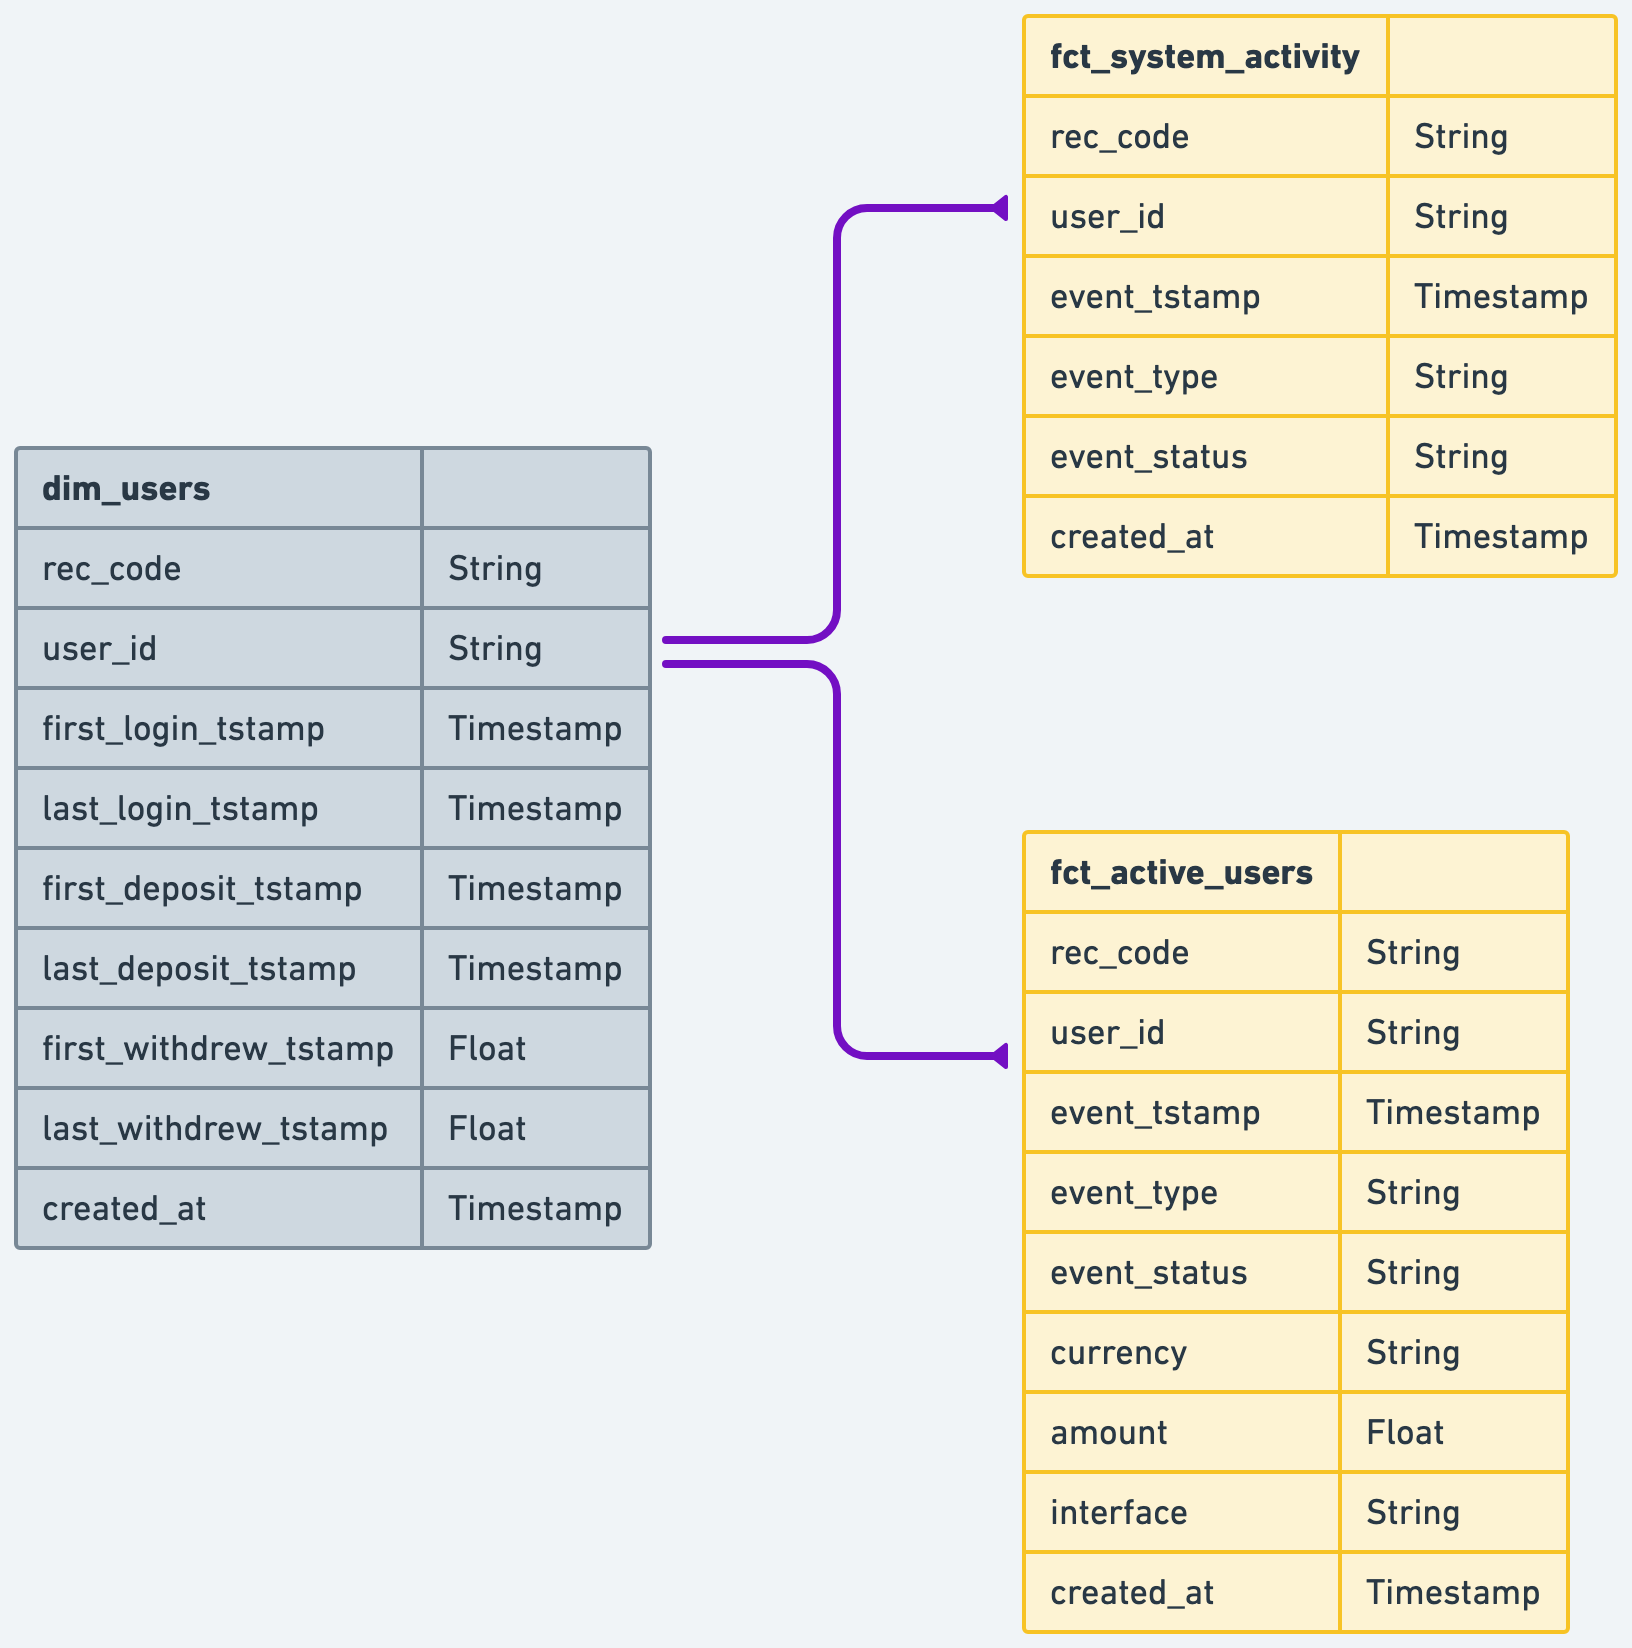
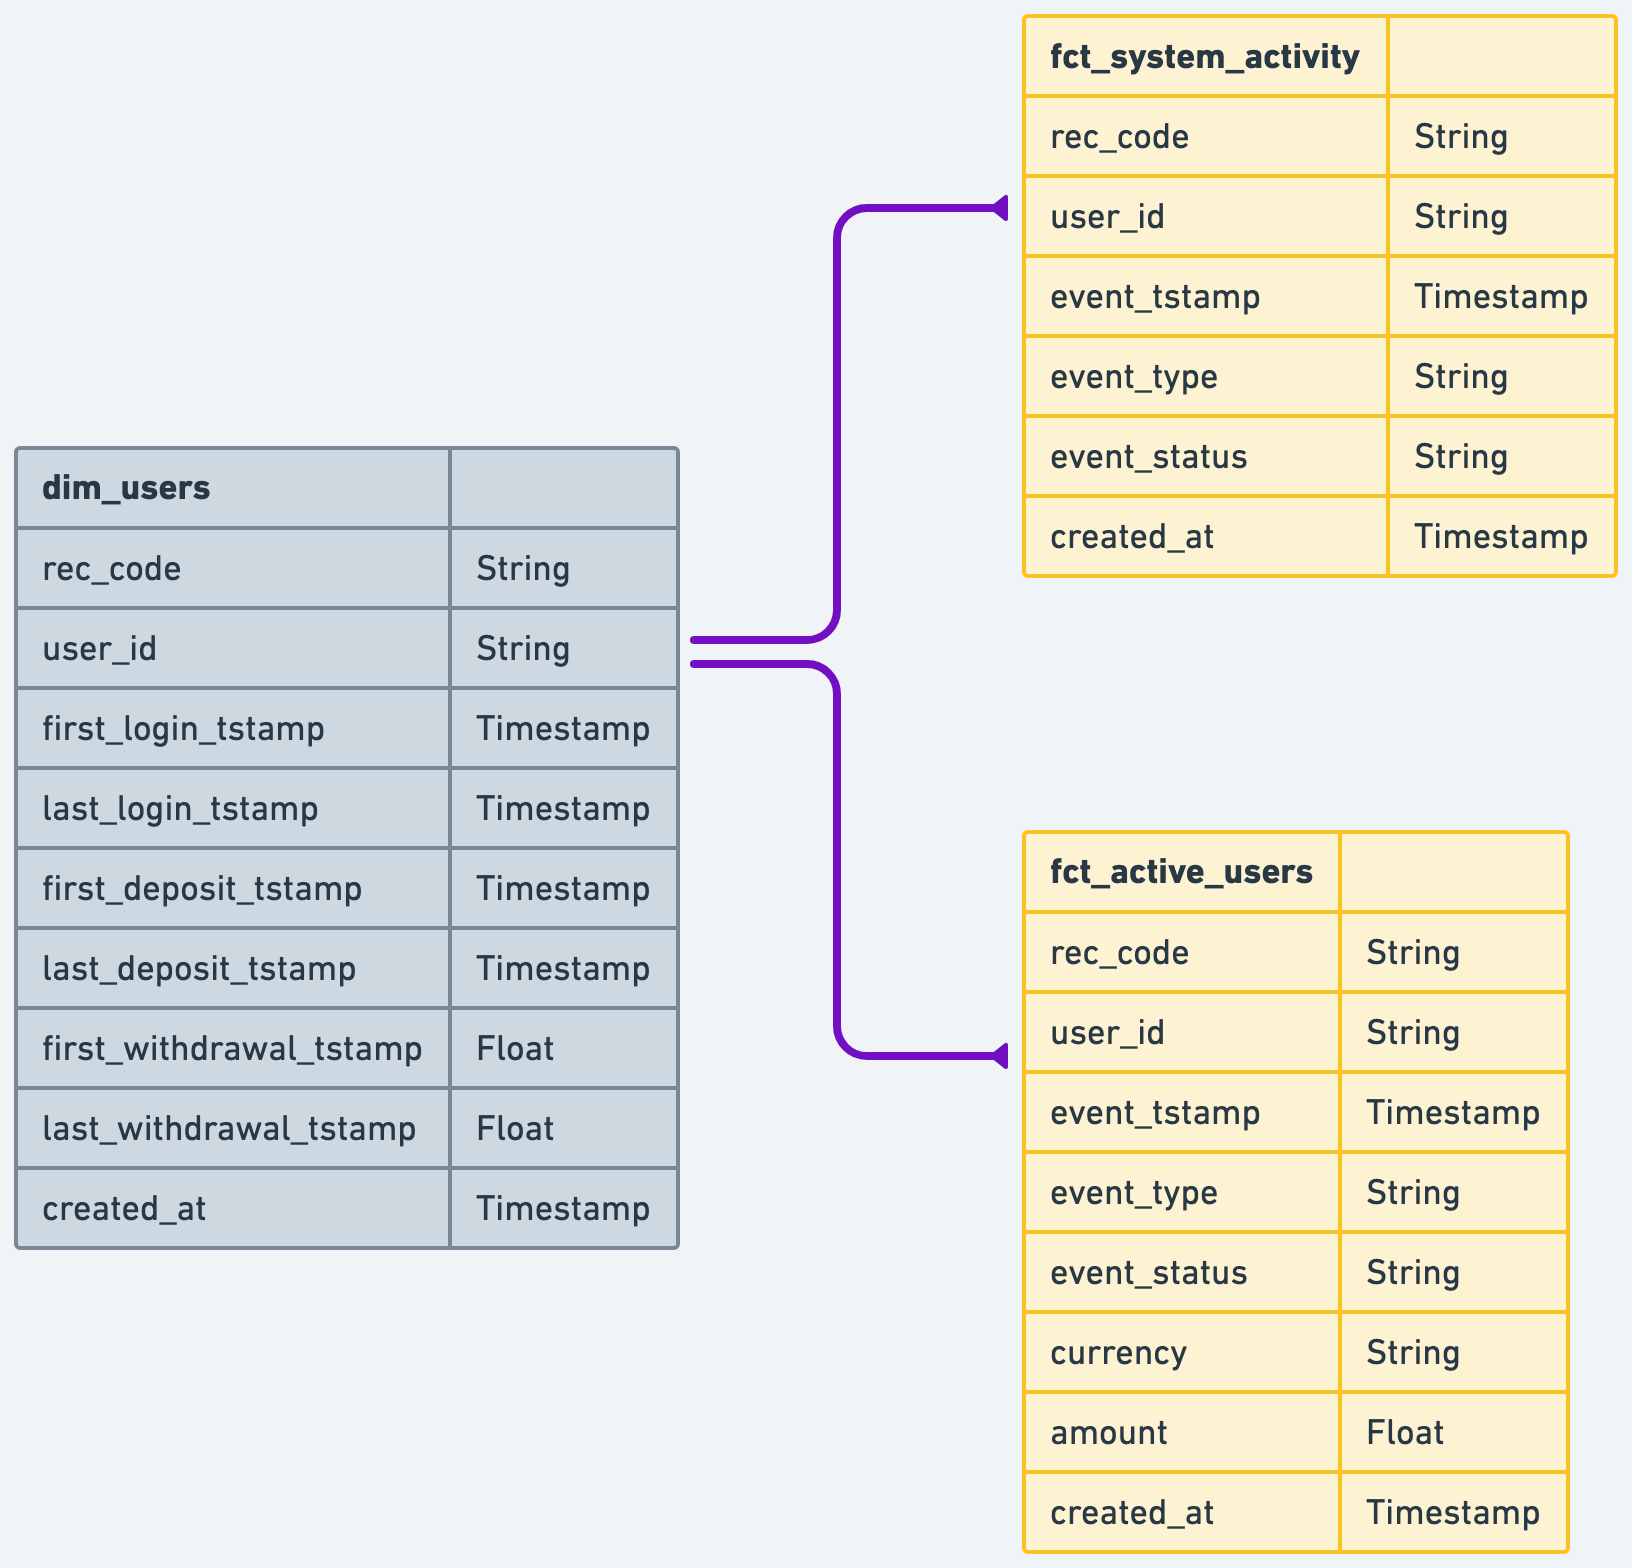
Creating process to create user dimension

Changed region(s): [[0.0, 0.25, 0.5312, 0.8125], [0.5, 0.5, 0.9688, 1.0], [0.5, 0.0312, 1.0, 0.375]]

diff --git a/src/challenge1.py b/src/challenge1.py
@@ -5,8 +5,6 @@ import os
 import hashlib
 from datetime import datetime, timedelta
 
-
-
 def download_data():
     """
     Downloads multiple files from predefined URLs and saves them to a specified directory.
@@ -15,20 +13,28 @@ def download_data():
 
     This function calls `download_file` and `download_and_unzip_file` for each URL in the `urls` list.
     """
+    print("Starting data download...")
+
     # Define URLs and output directory for CSV files
     csv_urls = config.CSV_URLs
     output_dir = config.INPUT_DIR  # Adjust the path as per your project structure
 
     # Download each file
     for url in csv_urls:
+        print(f"Downloading CSV file from {url}...")
         utils.download_file(url, output_dir)
+        print(f"Downloaded CSV file from {url}.")
 
     # Define URLs and output directory for zipped files
     zip_urls = config.ZIP_URLs
     
     # Download each file
     for url in zip_urls:
+        print(f"Downloading and unzipping file from {url}...")
         utils.download_and_unzip_file(url, output_dir)
+        print(f"Downloaded and unzipped file from {url}.")
+
+    print("Data download completed.")
 
 def create_fct_active_users(pivot_date, offset_days, deposit_file, withdrawals_file, output_file):
     """
@@ -41,36 +47,38 @@ def create_fct_active_users(pivot_date, offset_days, deposit_file, withdrawals_f
     withdrawals_file (str): Path to the withdrawals CSV file.
     output_file (str): Path to the output CSV file.
     """
+    print("Starting creation of active users fact table...")
+
     # Convert pivot_date to datetime
     pivot_date = datetime.strptime(pivot_date, '%Y-%m-%d')
     start_date = pivot_date - timedelta(days=offset_days)
     
-    # Read the CSV files
+    print(f"Reading deposits from {deposit_file}...")
     deposits = pd.read_csv(deposit_file)
+    print(f"Reading withdrawals from {withdrawals_file}...")
     withdrawals = pd.read_csv(withdrawals_file)
 
     # Rename event_timestamp to event_tstamp
     deposits.rename(columns={'event_timestamp': 'event_tstamp'}, inplace=True)
     withdrawals.rename(columns={'event_timestamp': 'event_tstamp'}, inplace=True)
     
-
     # Check if the output file exists
     fct_file_exist = os.path.exists(output_file)
 
     # If file doesn't exist, it will use all the data.
-    if(fct_file_exist):
-        # Filter data based on pivot_date and offset_days
+    if fct_file_exist:
+        print("Filtering data based on pivot_date and offset_days...")
         deposits = deposits[(deposits['event_tstamp'] >= start_date.strftime('%Y-%m-%d')) &
-                                    (deposits['event_tstamp'] <= pivot_date.strftime('%Y-%m-%d'))]
+                            (deposits['event_tstamp'] <= pivot_date.strftime('%Y-%m-%d'))]
         
         withdrawals = withdrawals[(withdrawals['event_tstamp'] >= start_date.strftime('%Y-%m-%d')) &
-                                        (withdrawals['event_tstamp'] <= pivot_date.strftime('%Y-%m-%d'))]
+                                  (withdrawals['event_tstamp'] <= pivot_date.strftime('%Y-%m-%d'))]
     
     # Add event_type column
     deposits['event_type'] = 'DEPOSIT'
     withdrawals['event_type'] = 'WITHDRAWAL'
 
-    
+    print("Concatenating deposit and withdrawal data...")
     # Concatenate the data
     combined = pd.concat([deposits, withdrawals], ignore_index=True)
 
@@ -93,9 +101,11 @@ def create_fct_active_users(pivot_date, offset_days, deposit_file, withdrawals_f
     final_df = combined[['rec_code', 'user_id', 'tx_id', 'event_tstamp', 'event_type', 
                          'event_status', 'currency', 'amount', 'created_at']]
     
+    print("Checking if the output file exists...")
     # Check if the output file exists
     if fct_file_exist:
         existing_df = pd.read_csv(output_file)
+        print("Merging existing data with the new data...")
         # Merge existing data with the new data
         merged_df = pd.merge(existing_df, final_df, on='rec_code', how='outer', suffixes=('_old', ''))
         
@@ -106,6 +116,7 @@ def create_fct_active_users(pivot_date, offset_days, deposit_file, withdrawals_f
     else:
         merged_df = final_df
 
+    print(f"Writing merged data to {output_file}...")
     # Write to the output file
     merged_df.to_csv(output_file, index=False)
     print(f"Data successfully written to {output_file}")
@@ -122,13 +133,17 @@ def create_fct_system_activity(pivot_date, offset_days, event_file, deposit_file
     withdrawals_file (str): Path to the withdrawals CSV file.
     output_file (str): Path to the output CSV file.
     """
+    print("Starting creation of system activity fact table...")
+
     # Convert pivot_date to datetime
     pivot_date = datetime.strptime(pivot_date, '%Y-%m-%d')
     start_date = pivot_date - timedelta(days=offset_days)
     
-    # Read the CSV files
+    print(f"Reading events from {event_file}...")
     events = pd.read_csv(event_file)
+    print(f"Reading deposits from {deposit_file}...")
     deposits = pd.read_csv(deposit_file)
+    print(f"Reading withdrawals from {withdrawals_file}...")
     withdrawals = pd.read_csv(withdrawals_file)
     
     # Rename event_timestamp to event_tstamp
@@ -139,11 +154,12 @@ def create_fct_system_activity(pivot_date, offset_days, event_file, deposit_file
     # Add event_type and event_status columns
     events['event_type'] = events['event_name']
     events['event_status'] = 'COMPLETED'
-    deposits['event_type'] = 'deposit'
+    deposits['event_type'] = 'DEPOSIT'
     deposits['event_status'] = deposits['tx_status']
-    withdrawals['event_type'] = 'withdrawal'
+    withdrawals['event_type'] = 'WITHDRAWAL'
     withdrawals['event_status'] = withdrawals['tx_status']
     
+    print("Concatenating events, deposits, and withdrawals data...")
     # Concatenate the data
     combined = pd.concat([events[['id', 'user_id', 'event_tstamp', 'event_type', 'event_status']],
                           deposits[['id', 'user_id', 'event_tstamp', 'event_type', 'event_status']],
@@ -166,6 +182,7 @@ def create_fct_system_activity(pivot_date, offset_days, event_file, deposit_file
     # Select and reorder columns
     final_df = combined[['rec_code', 'user_id', 'event_id', 'event_tstamp', 'event_type', 'event_status', 'created_at']]
     
+    print("Checking if the output file exists...")
     # Check if the output file exists
     if os.path.exists(output_file):
         existing_df = pd.read_csv(output_file)
@@ -175,6 +192,7 @@ def create_fct_system_activity(pivot_date, offset_days, event_file, deposit_file
             combined = combined[(combined['event_tstamp'] >= start_date.strftime('%Y-%m-%d')) &
                                 (combined['event_tstamp'] <= pivot_date.strftime('%Y-%m-%d'))]
         
+        print("Merging existing data with the new data...")
         # Merge existing data with the new data
         merged_df = pd.merge(existing_df, final_df, on='rec_code', how='outer', suffixes=('_old', ''))
         
@@ -185,8 +203,109 @@ def create_fct_system_activity(pivot_date, offset_days, event_file, deposit_file
     else:
         merged_df = final_df
 
+    print(f"Writing merged data to {output_file}...")
     # Write to the output file
     merged_df.to_csv(output_file, index=False)
+    print(f"Data successfully written to {output_file}")
+
+def create_dim_users(pivot_date, offset_days, activity_file, user_id_file, output_file):
+    """
+    Create a dimension table CSV file for users by extracting and summarizing data from system activity and user ID files.
+
+    Parameters:
+    pivot_date (str): The pivot date in 'YYYY-MM-DD' format.
+    offset_days (int): The number of days to include before the pivot date.
+    activity_file (str): Path to the system activity CSV file.
+    user_id_file (str): Path to the user ID CSV file.
+    output_file (str): Path to the output CSV file.
+    """
+    print("Starting creation of users dimension table...")
+
+    # Convert pivot_date to datetime
+    pivot_date = datetime.strptime(pivot_date, '%Y-%m-%d')
+    start_date = pivot_date - timedelta(days=offset_days)
+    
+    print(f"Reading activity data from {activity_file}...")
+    activity_df = pd.read_csv(activity_file)
+    print(f"Reading user ID data from {user_id_file}...")
+    user_id_df = pd.read_csv(user_id_file)
+    
+    print("Filtering activity data based on pivot_date and offset_days if the final file exists...")
+    # Filter activity data based on pivot_date and offset_days if the final file exists
+    if os.path.exists(output_file):
+        existing_df = pd.read_csv(output_file)
+        if not existing_df.empty:
+            activity_df = activity_df[(activity_df['event_tstamp'] >= start_date.strftime('%Y-%m-%d')) &
+                                      (activity_df['event_tstamp'] <= pivot_date.strftime('%Y-%m-%d'))]
+
+    # Get all unique user_ids from both files
+    all_user_ids = pd.concat([activity_df['user_id'], user_id_df['user_id']]).unique()
+    
+    # Initialize the dim_users DataFrame
+    dim_users = pd.DataFrame(all_user_ids, columns=['user_id'])
+    
+    # Generate rec_code using MD5 hash of user_id
+    dim_users['rec_code'] = dim_users['user_id'].apply(lambda x: hashlib.md5(str(x).encode()).hexdigest())
+
+    print("Calculating first and last event timestamps for logins, deposits, and withdrawals...")
+    # Group by user_id and calculate min and max event_tstamp for logins
+    result_df = activity_df[activity_df['event_type'] == 'LOGIN'].groupby('user_id')['event_tstamp'].agg(['min', 'max']).reset_index()
+    # Rename columns for clarity
+    result_df.columns = ['user_id', 'first_login_tstamp', 'last_login_tstamp']
+    # Full outer join info with dim_users
+    dim_users = pd.merge(dim_users, result_df, on='user_id', how='outer')
+
+    # Group by user_id and calculate min and max event_tstamp for deposits
+    result_df = activity_df[activity_df['event_type'] == 'DEPOSIT'].groupby('user_id')['event_tstamp'].agg(['min', 'max']).reset_index()
+    # Rename columns for clarity
+    result_df.columns = ['user_id', 'first_deposit_tstamp', 'last_deposit_tstamp']
+    # Full outer join info with dim_users
+    dim_users = pd.merge(dim_users, result_df, on='user_id', how='outer')
+    
+    # Group by user_id and calculate min and max event_tstamp for withdrawals
+    result_df = activity_df[activity_df['event_type'] == 'WITHDRAWAL'].groupby('user_id')['event_tstamp'].agg(['min', 'max']).reset_index()
+    # Rename columns for clarity
+    result_df.columns = ['user_id', 'first_withdrawal_tstamp', 'last_withdrawal_tstamp']
+    # Full outer join info with dim_users
+    dim_users = pd.merge(dim_users, result_df, on='user_id', how='outer')
+
+    # Add created_at column with the current timestamp
+    dim_users['created_at'] = datetime.now().strftime('%Y-%m-%d %H:%M:%S')
+
+    # List of columns to cast to datetime
+    timestamp_columns = ['first_login_tstamp', 'last_login_tstamp', 'first_deposit_tstamp', 'last_deposit_tstamp', 'first_withdrawal_tstamp', 'last_withdrawal_tstamp',]
+
+    # Cast specific columns to datetime
+    dim_users[timestamp_columns] = dim_users[timestamp_columns].apply(pd.to_datetime, errors='coerce')
+
+    print("Checking if the output file exists...")
+    # If the output file exists, merge/update the stored records
+    if os.path.exists(output_file):
+        existing_df = pd.read_csv(output_file)
+        
+        print("Merging existing data with the new data...")
+        # Merge existing data with the new data
+        merged_df = pd.merge(existing_df, dim_users, on='rec_code', how='outer', suffixes=('_old', ''))
+        print(merged_df.dtypes)
+        print(existing_df.dtypes)
+        print(dim_users.dtypes)
+        # Combine first/last timestamps ensuring min/max values are kept
+        for col in ['first_login_tstamp', 'first_deposit_tstamp', 'first_withdrawal_tstamp']:
+            merged_df[col] = merged_df[[col, col + '_old']].min(axis=1)
+        
+        for col in ['last_login_tstamp', 'last_deposit_tstamp', 'last_withdrawal_tstamp']:
+            merged_df[col] = merged_df[[col, col + '_old']].max(axis=1)
+        
+        # Drop duplicate columns created by merge (keep the new ones)
+        for col in ['user_id', 'created_at']:
+            merged_df[col] = merged_df[col].combine_first(merged_df[col + '_old'])
+            merged_df.drop(columns=[col + '_old'], inplace=True)
+        
+        dim_users = merged_df
+
+    print(f"Writing merged data to {output_file}...")
+    # Write to the output file
+    dim_users.to_csv(output_file, index=False)
     print(f"Data successfully written to {output_file}")
 
 
@@ -209,3 +328,11 @@ withdrawals_file = "data/input/withdrawals_sample_data.csv"
 output_file = "data/output/fct_system_activity.csv"
 
 create_fct_system_activity(pivot_date, offset_days, event_file, deposit_file, withdrawals_file, output_file)
+
+pivot_date = "2024-07-01"
+offset_days = 30
+activity_file = "data/output/fct_system_activity.csv"
+user_id_file = "data/input/user_id_sample_data.csv"
+output_file = "data/output/dim_users.csv"
+
+create_dim_users(pivot_date, offset_days, activity_file, user_id_file, output_file)

diff --git a/src/config.py b/src/config.py
@@ -1,8 +1,20 @@
+# Directories
 INPUT_DIR = 'data/input'
 OUTPUT_DIR = 'data/output'
+
+# URLs Sources
 CSV_URLs = ['https://raw.githubusercontent.com/IMARVI/sr_de_challenge/main/event_sample_data.csv',
            'https://raw.githubusercontent.com/IMARVI/sr_de_challenge/main/user_id_sample_data.csv',
            'https://raw.githubusercontent.com/IMARVI/sr_de_challenge/main/withdrawals_sample_data.csv']
 ZIP_URLs = ['https://github.com/IMARVI/sr_de_challenge/raw/main/deposit_sample_data.csv.zip']
-DIMENSION_USER_CSV = 'dimension_user.csv'
+
+# Source Tables
+DEPOSIT_EVENTS = 'deposit_sample_data.csv'
+WITHDRAWAL_EVENTS = 'withdrawals_sample_data.csv'
+EVENTS_SAMPLE = 'event_sample_data.csv'
+USER_SAMPLE = 'user_id_sample_data.csv'
+
+# Final Tables
+DIMENSION_USER = 'dim_users.csv'
 FACT_ACTIVE_USERS = 'fact_active_users.csv'
+FACT_SYSTEM_ACTIVITY = 'fact_system_activity.csv'

diff --git a/src/utils.py b/src/utils.py
@@ -55,3 +55,20 @@ def download_and_unzip_file(url, output_dir):
         print(f"Failed to download {url}: {e}")
     except zf.BadZipFile as e:
         print(f"Failed to unzip {url}: {e}")
+
+def get_first_last_timestamps(df, event_type):
+    """
+    Get the first and last timestamps for a specified event type from a DataFrame.
+
+    Parameters:
+    df (pd.DataFrame): The DataFrame containing the event data.
+    event_type (str): The event type to filter by.
+
+    Returns:
+    tuple: A tuple containing the first and last timestamps for the specified event type.
+           Returns (None, None) if no timestamps are found for the specified event type.
+    """
+    timestamps = df[df['event_type'] == event_type]['event_tstamp']
+    if not timestamps.empty:
+        return timestamps.min(), timestamps.max()
+    return None, None

diff --git a/README.md b/README.md
@@ -1,4 +1,11 @@
 # bitso_test
 
+<!-- TOC -->
+
+- [bitso_test](#bitso_test)
+  - [Data Model (ERD)](#data-model-erd)
+
+<!-- /TOC -->
+
 ## Data Model (ERD)
 ![Data Model](documentation/data_model_erd.png)
